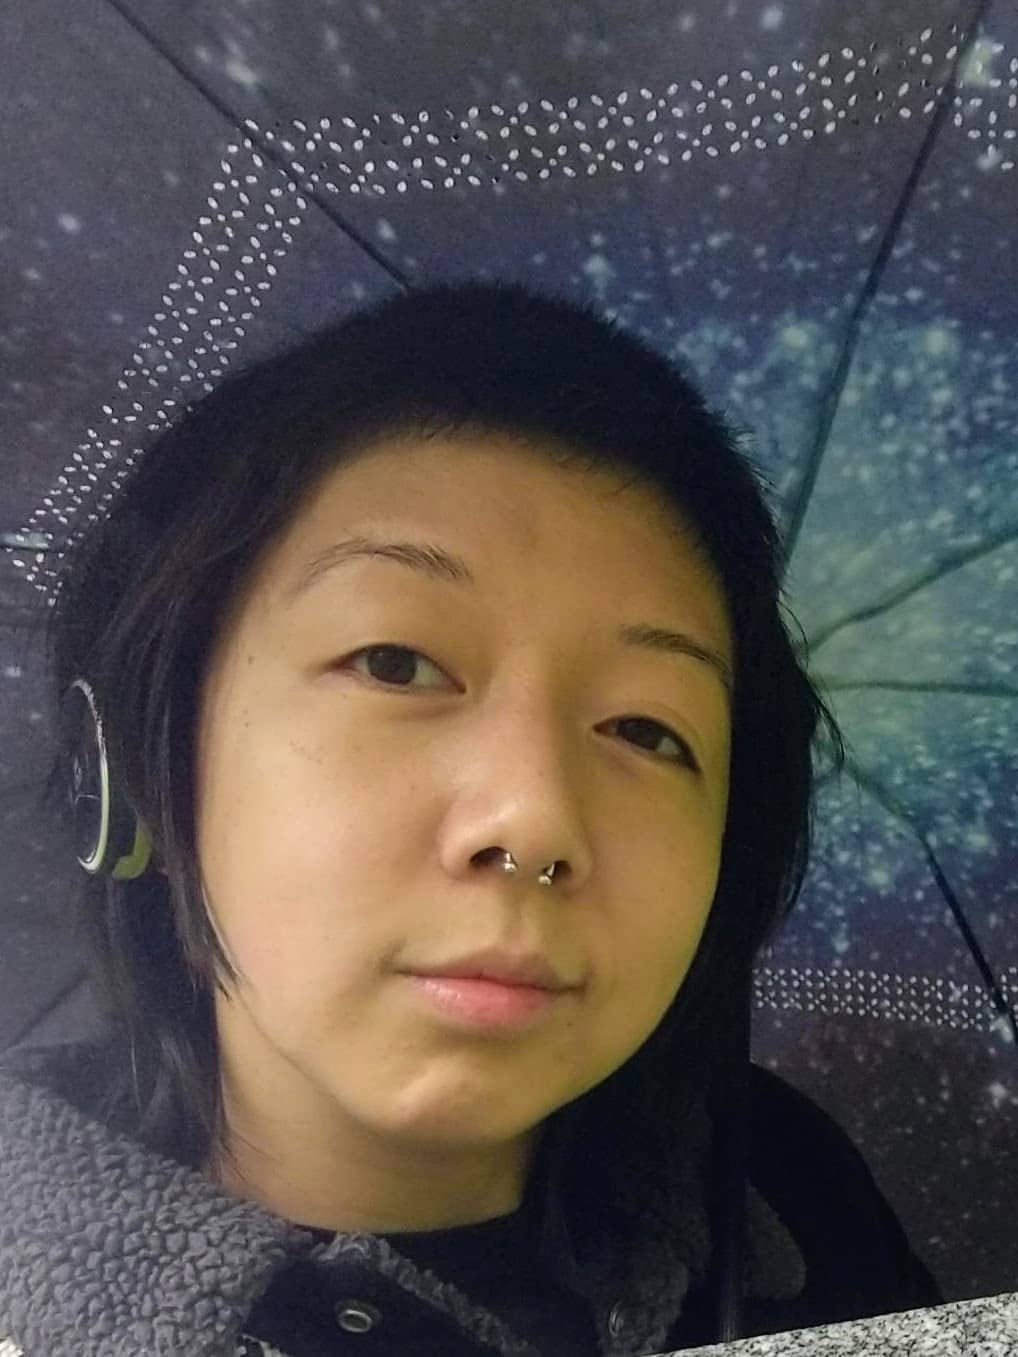
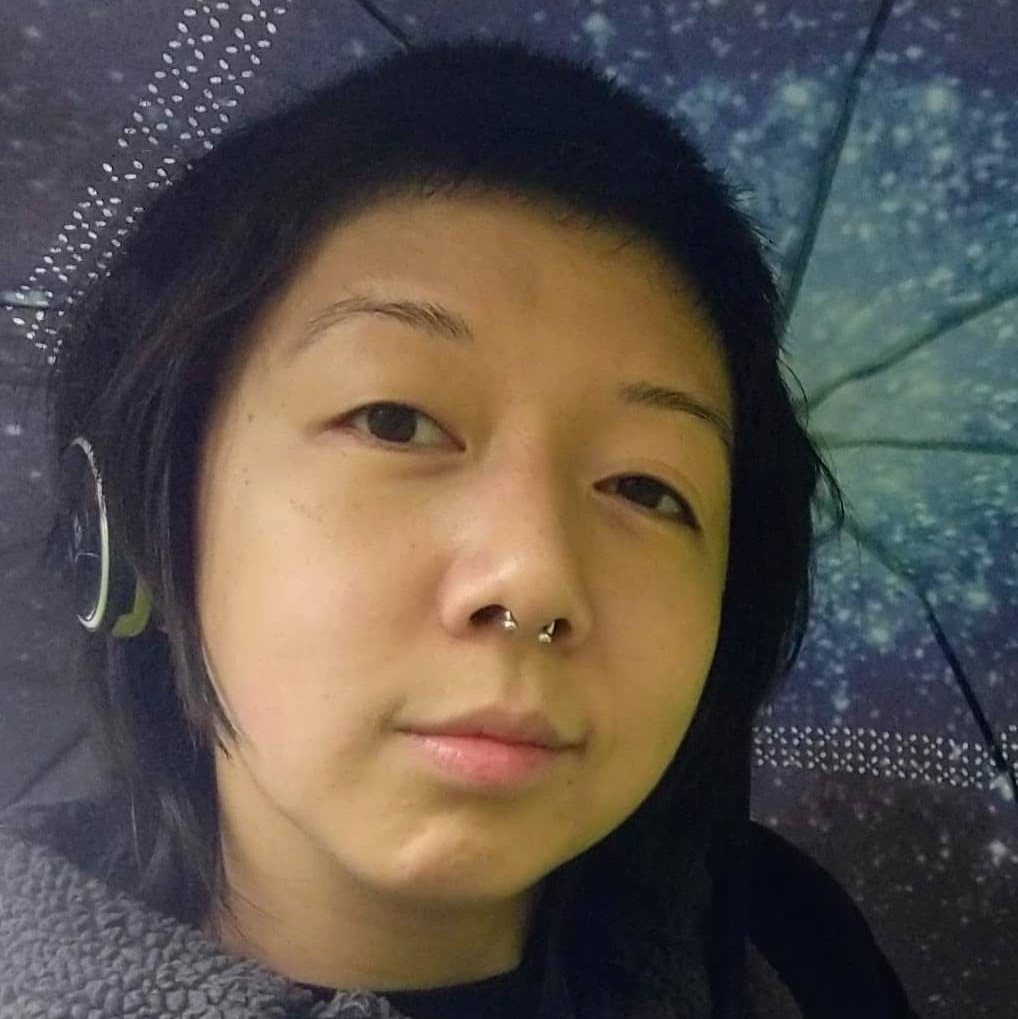
Modify photo and add img tag styling to size and center images

diff --git a/css/styles.css b/css/styles.css
@@ -11,7 +11,8 @@
 
 img {
   margin: auto;
-  max-height: 20%;
+  max-width: 300px;
+  height: auto;
   width: auto;
   display: block;
 }
